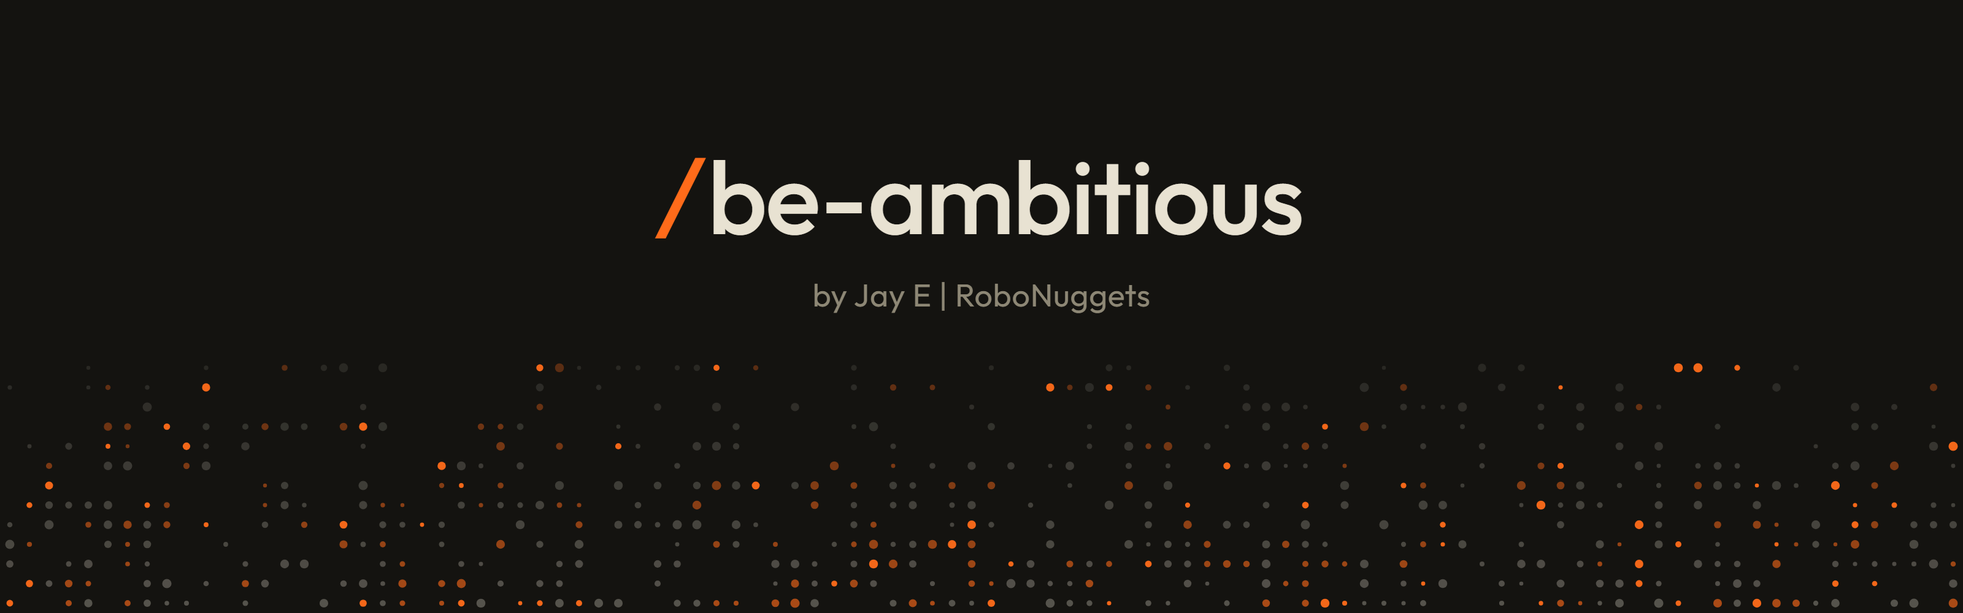
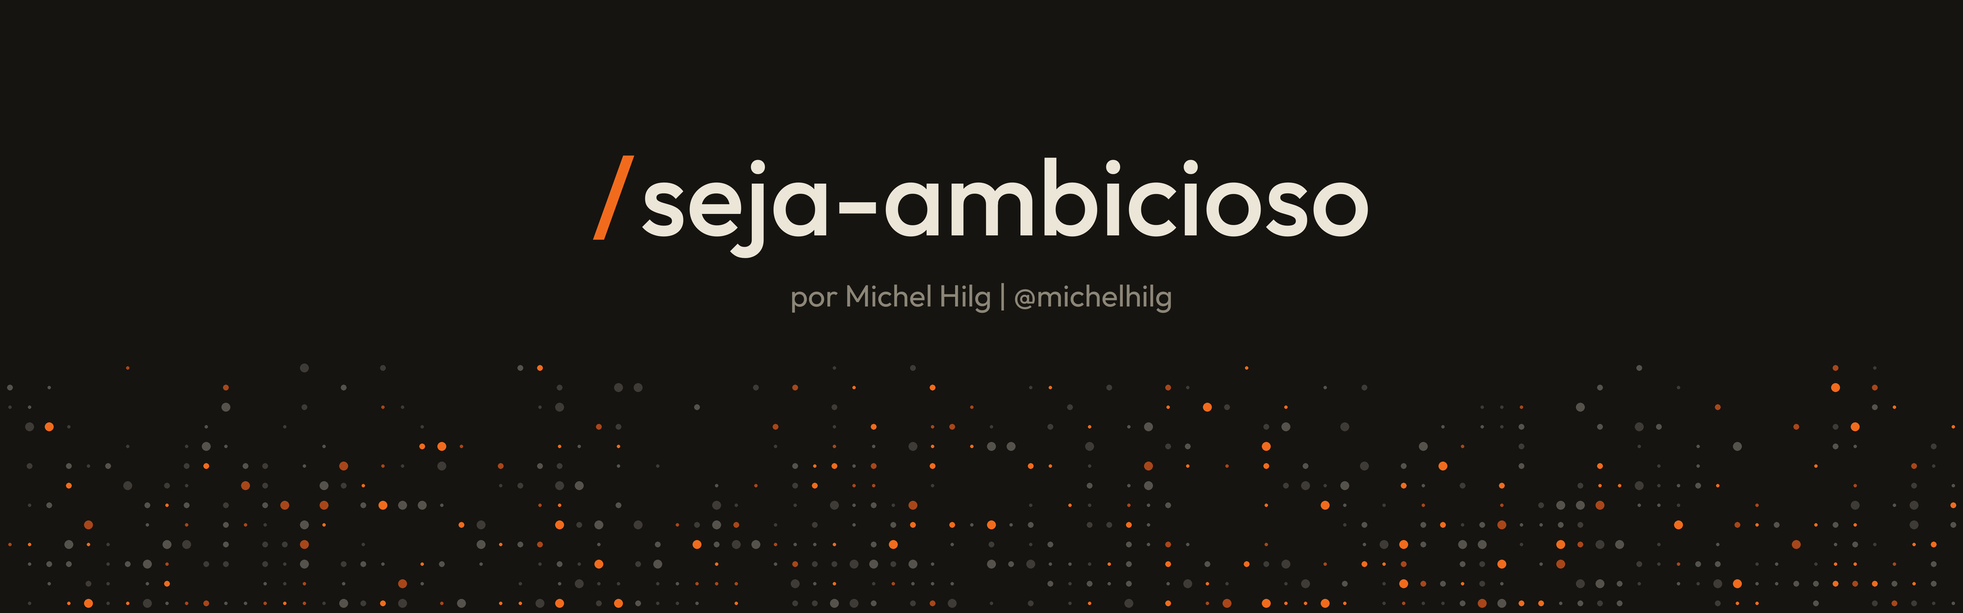
Localiza a skill para português: seja-ambicioso
Traduz SKILL.md e README.md para português, renomeia a skill para
seja-ambicioso, troca o banner por uma versão em português e adiciona
os créditos ao projeto original (Jay E | RoboNuggets).

diff --git a/SKILL.md b/SKILL.md
@@ -1,105 +1,106 @@
 ---
-name: be-ambitious
-description: Makes a task or prompt more ambitious using Felix Rieseberg's types of ambition, Altitude (aim at the outcome, the goal beyond the goal), Depth (work like the best expert in the field, from the raw data, checked by an outside judge) and Range (bring in other fields and do what their experts do). Writes the ambitious plan and a rewritten prompt, then does the work when it was handed a task. Use when the user types /be-ambitious, says "be more ambitious", "aim higher", "go deeper on this", "what's the goal beyond the goal", "what would a top expert do here", "raise the bar", or asks to make a prompt more ambitious.
+name: seja-ambicioso
+description: Deixa uma tarefa ou um prompt mais ambicioso usando os tipos de ambição de Felix Rieseberg, Altitude (mirar no resultado, o objetivo por trás do objetivo), Profundidade (trabalhar como o melhor especialista da área, a partir dos dados brutos, validado por um juiz externo) e Alcance (trazer outras áreas e fazer o que os especialistas delas fazem). Escreve o plano ambicioso e um prompt reescrito, e depois executa o trabalho quando recebeu uma tarefa. Use quando o usuário digitar /seja-ambicioso, disser "seja mais ambicioso", "mira mais alto", "vai mais fundo nisso", "qual é o objetivo por trás do objetivo", "o que um especialista de ponta faria aqui", "sobe a régua", ou pedir para deixar um prompt mais ambicioso.
 license: MIT
 metadata:
-  author: RoboNuggets
+  author: Michel Hilg (@michelhilg)
+  original: be-ambitious, de Jay E | RoboNuggets (https://github.com/robonuggets/be-ambitious)
   source: https://felixrieseberg.com/how-to-be-more-ambitious-a-tutorial-for-humans-with-models/
 ---
 
-# Be ambitious
+# Seja ambicioso
 
-Every idea here comes from Felix Rieseberg's article [How to be more ambitious: a tutorial for humans with models](https://felixrieseberg.com/how-to-be-more-ambitious-a-tutorial-for-humans-with-models/) (13 Oct 2026). Felix works on Claude at Anthropic. This skill turns his article into steps an agent can follow.
+Todas as ideias aqui vêm do artigo de Felix Rieseberg [How to be more ambitious: a tutorial for humans with models](https://felixrieseberg.com/how-to-be-more-ambitious-a-tutorial-for-humans-with-models/) ("Como ser mais ambicioso: um tutorial para humanos com modelos", 13 out. 2026). Felix trabalha no Claude, na Anthropic. Esta skill transforma o artigo dele em passos que um agente consegue seguir. As citações abaixo são traduções livres do original em inglês.
 
-Most people use a model at the size of the task they typed. Model skills grow unevenly, "astounding in some directions, while inadequate in others" (Terence Tao), so the only way to find the astounding parts is to aim higher than feels reasonable.
+A maioria das pessoas usa um modelo no tamanho da tarefa que digitou. As habilidades dos modelos crescem de forma desigual, "impressionantes em algumas direções, insuficientes em outras" (Terence Tao), então o único jeito de achar as partes impressionantes é mirar mais alto do que parece razoável.
 
-## The rules that matter most
+## As regras que mais importam
 
-1. **Better, not bigger.** Each type raises something: the outcome (Altitude), the standard (Depth) or the set of perspectives (Range). None of them means more deliverables, features or side quests. If a suggestion makes the job larger without making it better, drop it.
-2. **Do what the expert does, not how they talk.** When you bring in a field, use its methods and instruments. Switching vocabulary without switching methods is role play: the transcript gets weirder and the result stays the same.
-3. **An outside judge decides if it worked.** Never grade your own work. Find something other than you or the user that shows the result is right: a test, a benchmark, a reproduction, held-out data, a measurement. Best of all is a tool you can run to get feedback at once.
-4. **Treat the hard target as reasonable.** If a goal looks impossible, assume it's solvable and keep going. Specific hard goals beat "do your best" (Locke and Latham's review of 35 years of goal-setting research, which Felix cites). Report honestly against the judge: a missed hard target with real numbers is a good result. A faked one is not.
-5. **Get the access, don't fake it.** All of this needs a computer you can install software on and access to the real data, through MCP connectors (plug-ins that link an agent to other apps) or other means. If either is missing, name exactly what's missing and what it would unlock. Never invent a source, tool or result to fill the gap.
+1. **Melhor, não maior.** Cada tipo eleva alguma coisa: o resultado (Altitude), o padrão de qualidade (Profundidade) ou o conjunto de perspectivas (Alcance). Nenhum deles significa mais entregas, mais funcionalidades ou missões paralelas. Se uma sugestão deixa o trabalho maior sem deixá-lo melhor, descarte.
+2. **Faça o que o especialista faz, não como ele fala.** Quando trouxer uma área, use os métodos e os instrumentos dela. Trocar o vocabulário sem trocar os métodos é teatro: a conversa fica mais estranha e o resultado continua o mesmo.
+3. **Um juiz externo decide se funcionou.** Nunca avalie o próprio trabalho. Encontre algo que não seja você nem o usuário para mostrar que o resultado está certo: um teste, um benchmark, uma reprodução, dados separados para validação, uma medição. O melhor de tudo é uma ferramenta que você possa rodar para ter feedback na hora.
+4. **Trate a meta difícil como razoável.** Se um objetivo parece impossível, assuma que tem solução e siga em frente. Metas específicas e difíceis superam o "faça o seu melhor" (a revisão de Locke e Latham sobre 35 anos de pesquisa em definição de metas, citada por Felix). Reporte com honestidade diante do juiz: uma meta difícil não alcançada, com números reais, é um bom resultado. Uma meta forjada, não.
+5. **Consiga o acesso, não finja.** Tudo isso exige um computador onde você possa instalar software e acesso aos dados reais, via conectores MCP (plug-ins que ligam um agente a outros apps) ou outros meios. Se faltar algum dos dois, diga exatamente o que falta e o que isso destravaria. Nunca invente uma fonte, ferramenta ou resultado para tapar o buraco.
 
-## Input
+## Entrada
 
-The task is whatever follows `/be-ambitious`. If nothing follows, use the user's most recent request. If there's none, ask for the task in one line and stop.
+A tarefa é o que vier depois de `/seja-ambicioso`. Se não vier nada, use o pedido mais recente do usuário. Se não houver nenhum, peça a tarefa em uma linha e pare.
 
-Then decide what you were handed:
+Depois, decida o que você recebeu:
 
-- **A task to do** (fix this, build this, analyse this): plan it at the ambitious level, then do it.
-- **A prompt to improve** (a rewrite request, or a task meant for another agent or tool): stop after the rewritten prompt.
+- **Uma tarefa para fazer** (conserta isso, constrói isso, analisa isso): planeje no nível ambicioso e depois execute.
+- **Um prompt para melhorar** (um pedido de reescrita, ou uma tarefa destinada a outro agente ou ferramenta): pare depois do prompt reescrito.
 
-If you can't tell which, stop after the rewritten prompt.
+Se não der para saber qual dos dois, pare depois do prompt reescrito.
 
-## Pick the types that fit
+## Escolha os tipos que se encaixam
 
-Felix names four types of ambition. **Speed** (the same work in less time) is how most people already use AI and needs no creativity, so he skips it, and so does this skill. Use the other three only where they fit. Most tasks need one or two.
+Felix nomeia quatro tipos de ambição. **Velocidade** (o mesmo trabalho em menos tempo) é como a maioria das pessoas já usa IA e não exige criatividade, então ele pula esse tipo, e esta skill também. Use os outros três só onde fizerem sentido. A maioria das tarefas precisa de um ou dois.
 
-| Type | Fits when | Skip when |
+| Tipo | Serve quando | Pule quando |
 |---|---|---|
-| Altitude | The task serves an outcome. A good tell: people will hold meetings about it | Creative work with no outcome beyond itself |
-| Depth | The task should be done really well | Throwaway work |
-| Range | The result has to land with people, or the obvious field has run out of ideas | A narrow fix with one right answer |
+| Altitude | A tarefa serve a um resultado. Um bom sinal: as pessoas vão fazer reuniões sobre isso | Trabalho criativo sem resultado além de si mesmo |
+| Profundidade | A tarefa precisa ser muito bem feita | Trabalho descartável |
+| Alcance | O resultado precisa convencer pessoas, ou a área óbvia ficou sem ideias | Uma correção pontual com uma única resposta certa |
 
-### Altitude: aim at the outcome
+### Altitude: mire no resultado
 
-Ask what the user wants to happen next. What's the goal beyond the goal? Felix used to ask Claude to fix single crashes. Then he asked it to keep the apps crash-free.
+Pergunte o que o usuário quer que aconteça depois. Qual é o objetivo por trás do objetivo? Felix costumava pedir ao Claude para corrigir crashes isolados. Depois passou a pedir para manter os apps livres de crashes.
 
-Build a ladder of three rungs, each more ambitious than the last. Felix's example is a quarterly business review (QBR) deck:
+Monte uma escada de três degraus, cada um mais ambicioso que o anterior. O exemplo de Felix é uma apresentação de revisão trimestral de negócios (QBR):
 
-1. **Understand, don't fill in.** Skip updating the numbers in the template. Take in all the data you can get and work out "what changed this quarter, why, and what we should do about it."
-2. **Get to the decisions.** "Work out which three decisions are most urgent in the face of everything you've learned, and start working on potential directions with for/against arguments."
-3. **Replace the ritual.** "The review exists so leadership catches problems early and moves money and people to the right places. Design a better way to do that than a quarterly deck, show from our own history that it would have caught things sooner, and run it beside the current one for a quarter."
+1. **Entenda, não só preencha.** Não fique só atualizando os números do template. Absorva todos os dados que conseguir e descubra "o que mudou neste trimestre, por quê, e o que deveríamos fazer a respeito".
+2. **Chegue às decisões.** "Descubra quais são as três decisões mais urgentes diante de tudo o que você aprendeu e comece a trabalhar em possíveis caminhos, com argumentos a favor e contra."
+3. **Substitua o ritual.** "A revisão existe para que a liderança detecte problemas cedo e direcione dinheiro e pessoas para os lugares certos. Desenhe um jeito melhor de fazer isso do que uma apresentação trimestral, mostre com o nosso próprio histórico que ele teria detectado as coisas antes, e rode-o em paralelo ao atual por um trimestre."
 
-The top rung is where durable workflows live, ones that take the human out of the loop. They often need setup first. Before Claude could keep Felix's apps crash-free, it needed to fetch crash reports, map each app version to its git commit, and use Windows, macOS and Linux machines to reproduce and verify fixes. Name that setup as part of the plan.
+O degrau mais alto é onde vivem os fluxos de trabalho duradouros, aqueles que tiram o humano do circuito. Eles costumam exigir preparação antes. Para o Claude conseguir manter os apps de Felix livres de crashes, ele precisou buscar os relatórios de crash, mapear cada versão do app para o seu commit no git e usar máquinas Windows, macOS e Linux para reproduzir e verificar as correções. Inclua essa preparação como parte do plano.
 
-Know the ceiling. "Go make money" is still too high for most businesses. If a rung has no outside judge, step down one rung.
+Conheça o teto. "Vá ganhar dinheiro" ainda é alto demais para a maioria das empresas. Se um degrau não tem juiz externo, desça um degrau.
 
-### Depth: work like the field's best
+### Profundidade: trabalhe como os melhores da área
 
-Go one level below the task, to the underlying data, tools and problems. Keep pushing until even the best people in the field could learn something from the work.
+Desça um nível abaixo da tarefa, até os dados, as ferramentas e os problemas que estão por baixo dela. Continue avançando até que mesmo os melhores profissionais da área possam aprender algo com o trabalho.
 
-- **Use the expert's instruments.** Not just their words. Where you'd reach for a markdown table, a top data scientist reaches for a database and a statistical model. The user doesn't need to know what the experts use. You usually do.
-- **Set an unreasonable goal, and treat it as reasonable.** The page loads in 10 seconds and the user asked for 5? Aim for 200 milliseconds.
-- **Challenge what everyone believes.** Get the raw data and test the belief adversarially: "We believe churn is an onboarding problem. Try to reproduce that from the raw data."
-- **Produce new knowledge.** Once you're deep in the data, look for blind spots: "Build a simulation of our customers that reproduces the last year from our logs. Then find the earliest signal of churn we don't know about yet, and show it predicts on data it has not seen."
-- **Bring in an outside judge** (rule 3).
+- **Use os instrumentos do especialista.** Não só as palavras dele. Onde você usaria uma tabela em markdown, um cientista de dados de ponta usa um banco de dados e um modelo estatístico. O usuário não precisa saber o que os especialistas usam. Você normalmente sabe.
+- **Defina uma meta absurda e trate-a como razoável.** A página carrega em 10 segundos e o usuário pediu 5? Mire em 200 milissegundos.
+- **Questione o que todo mundo acredita.** Pegue os dados brutos e teste a crença de forma adversarial: "Acreditamos que o churn é um problema de onboarding. Tente reproduzir isso a partir dos dados brutos."
+- **Produza conhecimento novo.** Quando estiver fundo nos dados, procure pontos cegos: "Construa uma simulação dos nossos clientes que reproduza o último ano a partir dos nossos logs. Depois encontre o sinal mais precoce de churn que ainda não conhecemos e mostre que ele prevê em dados que nunca viu."
+- **Traga um juiz externo** (regra 3).
 
-Run every Depth pass through Felix's prompt:
+Passe toda análise de Profundidade pelo prompt de Felix:
 
-> I want a deeper version of this task, not a bigger one. Before rewriting it: (1) say what a top professional in this field would do here that I'm not asking for; (2) name the rawest material they would start from instead of what has already been digested for me; (3) name the specific methods and tools they would use; (4) say what, other than you or me, would show the result is right. Then rewrite my prompt to ask for exactly that.
+> Quero uma versão mais profunda desta tarefa, não uma maior. Antes de reescrevê-la: (1) diga o que um profissional de ponta desta área faria aqui que eu não estou pedindo; (2) aponte o material mais bruto de onde ele partiria, em vez do que já chegou digerido para mim; (3) cite os métodos e as ferramentas específicas que ele usaria; (4) diga o que, além de você ou de mim, mostraria que o resultado está certo. Depois reescreva o meu prompt pedindo exatamente isso.
 
-### Range: bring in other fields
+### Alcance: traga outras áreas
 
-Look at the work through more fields than used to be affordable. Every heist movie spends its first 30 minutes assembling the crew. Felix sees the most magic here, and it takes the most creativity.
+Olhe para o trabalho através de mais áreas do que antes era viável. Todo filme de assalto gasta os primeiros 30 minutos montando a equipe. É aqui que Felix vê mais mágica, e é o que exige mais criatividade.
 
-- **Replace the nouns with verbs.** A trick from *The Art of Innovation* by Tom Kelley and Jonathan Littman. A quarterly review isn't "a deck". It's "getting busy people to believe a story about cause and effect, and to decide under uncertainty, in 30 minutes". The verbs show which fields can help.
-- **Assemble the crew.** Raise the stakes: the deck has to be amazing or aliens blow up Earth, so who does humanity send? For quality: an analyst, a journalist and an editor. If it's presented: a motion designer and an audio designer. As a red team: a short seller and a forensic accountant.
-- **Borrow their tools.** A field brings its software, not only its ideas. Felix's colleague Alex Albert renders interior designs in Blender, a 3D tool.
-- **Do, don't play** (rule 2). Don't write like a short seller. Do what a short seller does to research a position. If you can run subagents, give each field its own subagent with that field's method and tools.
+- **Troque os substantivos por verbos.** Um truque de *A Arte da Inovação*, de Tom Kelley e Jonathan Littman. Uma revisão trimestral não é "uma apresentação". É "fazer pessoas ocupadas acreditarem numa história de causa e efeito, e decidirem sob incerteza, em 30 minutos". Os verbos mostram quais áreas podem ajudar.
+- **Monte a equipe.** Aumente o que está em jogo: a apresentação precisa ser incrível ou os alienígenas explodem a Terra, então quem a humanidade envia? Para qualidade: um analista, um jornalista e um editor. Se for apresentada ao vivo: um motion designer e um designer de áudio. Como red team: um vendedor a descoberto (short seller) e um contador forense.
+- **Pegue as ferramentas emprestadas.** Uma área traz o seu software, não só as suas ideias. Alex Albert, colega de Felix, renderiza projetos de design de interiores no Blender, uma ferramenta 3D.
+- **Faça, não interprete** (regra 2). Não escreva como um short seller. Faça o que um short seller faz para pesquisar uma posição. Se você puder rodar subagentes, dê a cada área o seu próprio subagente, com o método e as ferramentas daquela área.
 
-## Output
+## Saída
 
-Size the output to the task: a one-line prompt gets a few lines of plan, because the rewritten prompt is the product. In this order:
+Dimensione a saída de acordo com a tarefa: um prompt de uma linha recebe poucas linhas de plano, porque o prompt reescrito é o produto. Nesta ordem:
 
-1. **The goal beyond the goal**, in one line.
-2. **The types that fit**, one line each on why, plus the ones you skipped.
-3. **The plan** for each type you picked. Altitude: the three-rung ladder. Depth: the four answers from Felix's prompt and the hard target. Range: the verbs, then the crew as field, the job they'd actually do, and the method or tool they'd use for it.
-4. **What it needs**: the data, tools and access, marked as already there or missing.
-5. **The rewritten prompt** in one fenced block the user can copy, written the way they'd type it, ending with the outside judge and what counts as a pass.
-6. **Next.** Pick the highest rung you can finish and check with the access you have now. For a prompt to improve, name that rung and stop. For a task to do, name it in one line and start. If even the first rung needs access you don't have, ask for it and stop. Ask first, too, when the rung replaces what the user asked for instead of raising it, spends money, or can't be undone. Ambition raises the standard, not the permissions.
+1. **O objetivo por trás do objetivo**, em uma linha.
+2. **Os tipos que se encaixam**, uma linha para cada explicando o porquê, mais os que você pulou.
+3. **O plano** para cada tipo escolhido. Altitude: a escada de três degraus. Profundidade: as quatro respostas do prompt de Felix e a meta difícil. Alcance: os verbos, depois a equipe com a área, o trabalho que ela faria de verdade e o método ou a ferramenta que usaria para isso.
+4. **Do que precisa**: os dados, as ferramentas e os acessos, marcados como já disponíveis ou faltando.
+5. **O prompt reescrito** em um único bloco cercado que o usuário possa copiar, escrito do jeito que ele digitaria, terminando com o juiz externo e o que conta como aprovado.
+6. **Próximo passo.** Escolha o degrau mais alto que você consegue concluir e verificar com o acesso que tem agora. Para um prompt a melhorar, nomeie esse degrau e pare. Para uma tarefa a fazer, nomeie-o em uma linha e comece. Se até o primeiro degrau exigir um acesso que você não tem, peça e pare. Pergunte antes, também, quando o degrau substituir o que o usuário pediu em vez de elevá-lo, gastar dinheiro ou não puder ser desfeito. Ambição eleva o padrão, não as permissões.
 
-## A short example
+## Um exemplo curto
 
-`/be-ambitious fix the crash in the login screen`
+`/seja-ambicioso corrige o crash na tela de login`
 
-- **Goal beyond the goal:** people can always log in.
-- **Types:** Altitude and Depth. Range skipped, since a crash fix has one right answer.
-- **Altitude ladder:** (1) fix this crash with a test that fails before and passes after; (2) find every crash of this kind in the crash reports and fix the cause, not the symptom; (3) keep login crash-free: fetch crash reports, map versions to commits, reproduce on every platform, fix and verify without waiting to be asked.
-- **Depth:** start from the raw crash dumps and logs, not the bug report. Reproduce before you fix. Target zero login crashes in the next release, not fewer.
-- **Outside judge:** the failing test turns green, and the crash rate in the reporting tool drops to zero for that build.
+- **Objetivo por trás do objetivo:** as pessoas sempre conseguem fazer login.
+- **Tipos:** Altitude e Profundidade. Alcance pulado, já que a correção de um crash tem uma única resposta certa.
+- **Escada de Altitude:** (1) corrigir este crash com um teste que falha antes e passa depois; (2) encontrar todos os crashes desse tipo nos relatórios e corrigir a causa, não o sintoma; (3) manter o login livre de crashes: buscar os relatórios de crash, mapear versões para commits, reproduzir em todas as plataformas, corrigir e verificar sem esperar alguém pedir.
+- **Profundidade:** partir dos dumps de crash e dos logs brutos, não do relato do bug. Reproduzir antes de corrigir. Meta: zero crashes de login na próxima versão, não "menos crashes".
+- **Juiz externo:** o teste que falhava fica verde, e a taxa de crashes na ferramenta de monitoramento cai para zero naquela build.
 
-## Why this works
+## Por que isso funciona
 
-Felix ends on self-efficacy: people who believe in their own abilities accomplish more, and that belief can be hacked. George Dantzig solved two unsolved statistics problems in 1939 because he thought they were homework. Roger Bannister broke the four-minute mile in 1954, and someone else broke it 46 days later. *The Inner Game of Tennis* argues you play your best when you stop trying so hard. The same holds for the user and the model: say the hard thing is possible, and give permission to fail against an honest judge.
+Felix fecha falando de autoeficácia: pessoas que acreditam nas próprias capacidades realizam mais, e essa crença pode ser hackeada. George Dantzig resolveu dois problemas de estatística em aberto em 1939 porque achou que eram lição de casa. Roger Bannister quebrou a barreira da milha em quatro minutos em 1954, e outra pessoa quebrou de novo 46 dias depois. *O Jogo Interior do Tênis* defende que você joga melhor quando para de se esforçar tanto. O mesmo vale para o usuário e para o modelo: diga que a coisa difícil é possível e dê permissão para falhar diante de um juiz honesto.

diff --git a/README.md b/README.md
@@ -1,113 +1,120 @@
 <p align="center">
-  <img src="assets/banner.png" alt="be-ambitious" width="100%">
+  <img src="assets/banner.png" alt="seja-ambicioso" width="100%">
 </p>
 
-# be-ambitious
+# seja-ambicioso
 
-A free Claude skill that makes your agent more ambitious when you invoke it.
+Uma skill gratuita para o Claude que deixa o seu agente mais ambicioso quando você a chama.
 
-It turns Felix Rieseberg's article [How to be more ambitious: a tutorial for humans with models](https://felixrieseberg.com/how-to-be-more-ambitious-a-tutorial-for-humans-with-models/) into steps an agent follows. Felix works on Claude at Anthropic. All the ideas are his.
+Ela transforma o artigo de Felix Rieseberg [How to be more ambitious: a tutorial for humans with models](https://felixrieseberg.com/how-to-be-more-ambitious-a-tutorial-for-humans-with-models/) ("Como ser mais ambicioso: um tutorial para humanos com modelos") em passos que um agente segue. Felix trabalha no Claude, na Anthropic. Todas as ideias são dele.
 
-## What it does
+Esta é a versão 100% em português da skill [be-ambitious](https://github.com/robonuggets/be-ambitious), criada por Jay E | RoboNuggets.
 
-Most of us use a model at the size of the task we typed. Felix's point: the model can do far more if you aim it higher, deeper or wider. He names four types of ambition. The skill uses three of them:
+## O que ela faz
 
-| Type | The question it asks | Example |
+A maioria de nós usa um modelo no tamanho da tarefa que digitou. O ponto de Felix: o modelo consegue fazer muito mais se você mirar mais alto, mais fundo ou mais amplo. Ele nomeia quatro tipos de ambição. A skill usa três deles:
+
+| Tipo | A pergunta que ele faz | Exemplo |
 |---|---|---|
-| **Altitude** | What's the goal beyond the goal? | Don't fix one crash. Keep the app crash-free. |
-| **Depth** | What would the best expert in the field do, from the raw data, and what outside check proves it's right? | Don't make a markdown table. Load the data into a database and fit a real statistical model. |
-| **Range** | Which other fields would help, and what do their experts actually do? | Bring in a journalist, an editor and a short seller, and have each do their real job. |
+| **Altitude** | Qual é o objetivo por trás do objetivo? | Não corrija um crash. Mantenha o app livre de crashes. |
+| **Profundidade** | O que o melhor especialista da área faria, a partir dos dados brutos, e que verificação externa prova que está certo? | Não monte uma tabela em markdown. Carregue os dados num banco de dados e ajuste um modelo estatístico de verdade. |
+| **Alcance** | Quais outras áreas ajudariam, e o que os especialistas delas fazem de fato? | Traga um jornalista, um editor e um short seller, e faça cada um executar o seu trabalho real. |
 
-The fourth type, **Speed** (the same work in less time), is how most people already use AI, so Felix skips it and so does the skill.
+O quarto tipo, **Velocidade** (o mesmo trabalho em menos tempo), é como a maioria das pessoas já usa IA, então Felix pula esse tipo, e a skill também.
 
-When you invoke it, the skill:
+Quando você a chama, a skill:
 
-1. Finds the goal beyond the goal.
-2. Picks the types that fit your task (usually one or two, not all three).
-3. Writes the ambitious plan: a 3-rung ladder for Altitude, Felix's four expert questions for Depth, and the crew for Range.
-4. Lists the data, tools and access the plan needs, and what's missing.
-5. Rewrites your prompt at that level, ending with an outside check and what counts as a pass.
-6. Does the work, if you handed it a task. Stops after the rewrite, if you handed it a prompt to improve.
+1. Encontra o objetivo por trás do objetivo.
+2. Escolhe os tipos que se encaixam na sua tarefa (normalmente um ou dois, não os três).
+3. Escreve o plano ambicioso: uma escada de 3 degraus para Altitude, as quatro perguntas de especialista de Felix para Profundidade e a equipe para Alcance.
+4. Lista os dados, as ferramentas e os acessos que o plano exige, e o que está faltando.
+5. Reescreve o seu prompt nesse nível, terminando com uma verificação externa e o que conta como aprovado.
+6. Executa o trabalho, se você passou uma tarefa. Para depois da reescrita, se você passou um prompt para melhorar.
 
-It holds a few hard lines from the article: better, not bigger. Do what the expert does, not role play. Never grade your own work. Treat the hard target as reasonable, and report honestly against the check.
+Ela segue algumas regras firmes do artigo: melhor, não maior. Faça o que o especialista faz, não teatro. Nunca avalie o próprio trabalho. Trate a meta difícil como razoável e reporte com honestidade diante da verificação.
 
-## Install
+## Instalação
 
-**Claude Code.** Put the skill in a folder named `be-ambitious` inside your skills folder.
+**Claude Code.** Coloque a skill numa pasta chamada `seja-ambicioso` dentro da sua pasta de skills.
 
-For all your projects:
-
-```bash
-git clone https://github.com/robonuggets/be-ambitious ~/.claude/skills/be-ambitious
-```
-
-For one project only, run this from the project folder:
+Para todos os seus projetos:
 
 ```bash
-git clone https://github.com/robonuggets/be-ambitious .claude/skills/be-ambitious
+git clone https://github.com/michelhilg/seja-ambicioso ~/.claude/skills/seja-ambicioso
 ```
 
-The skill is one file, so copying `SKILL.md` into `~/.claude/skills/be-ambitious/` works too. On Windows, `~/.claude` is the `.claude` folder inside your user folder.
+Só para um projeto, rode isto a partir da pasta do projeto:
 
-**claude.ai.** Zip `SKILL.md` and `LICENSE` in a folder named `be-ambitious`, then upload it under Skills in your claude.ai settings.
+```bash
+git clone https://github.com/michelhilg/seja-ambicioso .claude/skills/seja-ambicioso
+```
 
-## Use it
+A skill é um único arquivo, então copiar o `SKILL.md` para `~/.claude/skills/seja-ambicioso/` também funciona. No Windows, `~/.claude` é a pasta `.claude` dentro da sua pasta de usuário.
 
-Type `/be-ambitious` and your task:
+**claude.ai.** Compacte o `SKILL.md` e o `LICENSE` num .zip com uma pasta chamada `seja-ambicioso` e envie em Skills, nas configurações do claude.ai.
+
+## Como usar
+
+Digite `/seja-ambicioso` e a sua tarefa:
 
 ```text
-/be-ambitious make our quarterly business review deck from the sales CSVs in /data
+/seja-ambicioso monta a apresentação da revisão trimestral a partir dos CSVs de vendas em /data
 ```
 
-- **A task to do** (fix, build, analyse): you get the plan and the rewritten prompt, then the agent starts on the rung it picked. It asks first only if the rung replaces what you asked for, costs money, or can't be undone.
-- **A prompt to improve** ("rewrite this prompt", or a prompt meant for another tool): you get the plan and the rewritten prompt, and it stops.
-- **No task:** `/be-ambitious` on its own uses your last request.
+- **Uma tarefa para fazer** (corrigir, construir, analisar): você recebe o plano e o prompt reescrito, e então o agente começa pelo degrau que escolheu. Ele só pergunta antes se o degrau substituir o que você pediu, custar dinheiro ou não puder ser desfeito.
+- **Um prompt para melhorar** ("reescreve este prompt", ou um prompt destinado a outra ferramenta): você recebe o plano e o prompt reescrito, e ela para.
+- **Sem tarefa:** `/seja-ambicioso` sozinho usa o seu último pedido.
 
-You can also say it in plain words, like "be more ambitious with this" or "what would a top expert do here?"
+Você também pode pedir em linguagem natural, como "seja mais ambicioso com isso" ou "o que um especialista de ponta faria aqui?".
 
-## Example
+## Exemplo
 
-You type:
+Você digita:
 
 ```text
-/be-ambitious our marketing website takes 8 seconds to load, speed it up
+/seja-ambicioso o site de marketing leva 8 segundos para carregar, deixa ele mais rápido
 ```
 
-You get (from a real test run, trimmed):
+Você recebe (de um teste real, resumido):
 
-- **Goal beyond the goal:** visitors never leave because the site is slow.
-- **Types:** Altitude and Depth. Range skipped, since a speed fix has mostly one right answer.
-- **Altitude ladder:**
-  1. Get the page under a set load time, with before and after measurements.
-  2. Find every slow page and fix the causes.
-  3. Keep the site fast: a performance budget checked on every deploy, failing the build when it slips.
-- **Depth:** start from a real trace, not guesses. Use Lighthouse, WebPageTest, the network waterfall and a bundle analyzer. Hard target: about 200 ms to first useful content, not 5 seconds.
-- **Outside judge:** repeated measured runs and real-user numbers.
-- **Rewritten prompt:**
+- **Objetivo por trás do objetivo:** nenhum visitante vai embora porque o site é lento.
+- **Tipos:** Altitude e Profundidade. Alcance pulado, já que acelerar um site tem basicamente uma resposta certa.
+- **Escada de Altitude:**
+  1. Colocar a página abaixo de um tempo de carregamento definido, com medições de antes e depois.
+  2. Encontrar todas as páginas lentas e corrigir as causas.
+  3. Manter o site rápido: um orçamento de performance verificado a cada deploy, que quebra o build quando é ultrapassado.
+- **Profundidade:** partir de um trace real, não de palpites. Usar Lighthouse, WebPageTest, a cascata de rede e um analisador de bundle. Meta difícil: cerca de 200 ms até o primeiro conteúdo útil, não 5 segundos.
+- **Juiz externo:** execuções repetidas e medidas, e números de usuários reais.
+- **Prompt reescrito:**
 
 ```text
-Our marketing website takes 8 seconds to load. Start from a real trace (Lighthouse,
-WebPageTest, the network waterfall), not guesses, and list the biggest causes by time
-cost. Fix them in order, measuring after each fix. Aim for about 200 ms to first useful
-content. Then add a performance budget to our deploys so it can't get slow again.
-Pass = repeated test runs show the target met, and the deploy check fails when the
-budget is broken. Report real numbers, including any missed target.
+Nosso site de marketing leva 8 segundos para carregar. Comece por um trace real
+(Lighthouse, WebPageTest, a cascata de rede), não por palpites, e liste as maiores
+causas por custo de tempo. Corrija na ordem, medindo depois de cada correção. Mire em
+cerca de 200 ms até o primeiro conteúdo útil. Depois adicione um orçamento de
+performance aos nossos deploys para que o site não fique lento de novo.
+Aprovado = execuções de teste repetidas mostram a meta atingida, e a verificação do
+deploy falha quando o orçamento é estourado. Reporte números reais, incluindo
+qualquer meta não atingida.
 ```
 
-Then it starts: a baseline Lighthouse run on the live site, the slowest requests ranked, and the top cause fixed and measured again.
+Então ela começa: uma rodada base do Lighthouse no site no ar, as requisições mais lentas ranqueadas e a principal causa corrigida e medida de novo.
 
-## What it needs
+## Do que ela precisa
 
-Felix's note, and it matters: all of this needs a model with **a computer it can install software on** and **access to the real data**, through MCP connectors (plug-ins that link the agent to your apps) or other means. Without them, the skill tells you exactly what's missing and what it would unlock. It won't invent data to fill the gap.
+A observação de Felix, e ela importa: tudo isso exige um modelo com **um computador onde ele possa instalar software** e **acesso aos dados reais**, via conectores MCP (plug-ins que ligam o agente aos seus apps) ou outros meios. Sem isso, a skill diz exatamente o que falta e o que isso destravaria. Ela não inventa dados para tapar o buraco.
 
-## Credits
+## Créditos
 
-- **Felix Rieseberg** for the article this skill is built on: [How to be more ambitious: a tutorial for humans with models](https://felixrieseberg.com/how-to-be-more-ambitious-a-tutorial-for-humans-with-models/) (13 Oct 2026). The types, the examples, the Depth prompt and the warnings are his.
-- **DannyMac180** for the earlier, prompt-only version: [DannyMac180/skills](https://github.com/DannyMac180/skills/tree/main/be-ambitious). It wraps Felix's "deeper, not bigger" prompt. This version adds Altitude and Range.
-- **Tom Kelley and Jonathan Littman** for the nouns-to-verbs trick in *The Art of Innovation*, which Felix uses for Range.
+- **Jay E | [RoboNuggets](https://www.skool.com/robonuggets)** pela skill original em inglês, [be-ambitious](https://github.com/robonuggets/be-ambitious), da qual este repositório é um fork traduzido. A estrutura, os passos e os exemplos desta versão são dele.
+- **Felix Rieseberg** pelo artigo em que a skill se baseia: [How to be more ambitious: a tutorial for humans with models](https://felixrieseberg.com/how-to-be-more-ambitious-a-tutorial-for-humans-with-models/) (13 out. 2026). Os tipos, os exemplos, o prompt de Profundidade e os alertas são dele.
+- **DannyMac180** pela versão anterior, só de prompt: [DannyMac180/skills](https://github.com/DannyMac180/skills/tree/main/be-ambitious). Ela encapsula o prompt "mais fundo, não maior" de Felix. A versão do RoboNuggets acrescentou Altitude e Alcance.
+- **Tom Kelley e Jonathan Littman** pelo truque de trocar substantivos por verbos, de *A Arte da Inovação*, que Felix usa em Alcance.
 
-## License
+Tradução e adaptação para o português por **Michel Hilg** ([@michelhilg](https://www.instagram.com/michelhilg/)).
 
-MIT. See [LICENSE](LICENSE).
+## Licença
 
-Made by [RoboNuggets](https://www.skool.com/robonuggets)
+MIT, a mesma do projeto original. Veja o arquivo [LICENSE](LICENSE), que mantém o aviso de copyright original do RoboNuggets ao lado do da tradução. O texto da licença fica em inglês de propósito, porque é o texto oficial da licença MIT.
+
+Feito por [@michelhilg](https://www.instagram.com/michelhilg/), a partir do trabalho de [RoboNuggets](https://www.skool.com/robonuggets).
